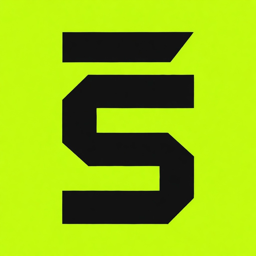
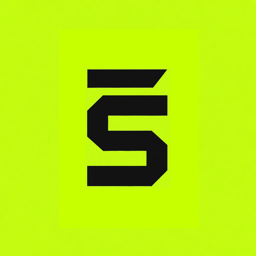
feat: refresh extension branding
- update the extension icon set with the new artwork
- bump the release to v1.0.11 and refresh the release archive
- show the new icon in the README

Changed region(s): [[0.2188, 0.0938, 0.7812, 0.9062]]

diff --git a/README.md b/README.md
@@ -4,6 +4,8 @@
 ![TypeScript](https://img.shields.io/badge/typescript-%23007ACC.svg?style=for-the-badge&logo=typescript&logoColor=white)
 ![Google Chrome](https://img.shields.io/badge/Google%20Chrome-4285F4?style=for-the-badge&logo=GoogleChrome&logoColor=white)
 
+![Sentō app icon](icons/icon512.png)
+
 ## Rewrite anywhere
 
 **Sentō** is a Chrome extension that adds a floating AI rewrite bubble to any editable field.
